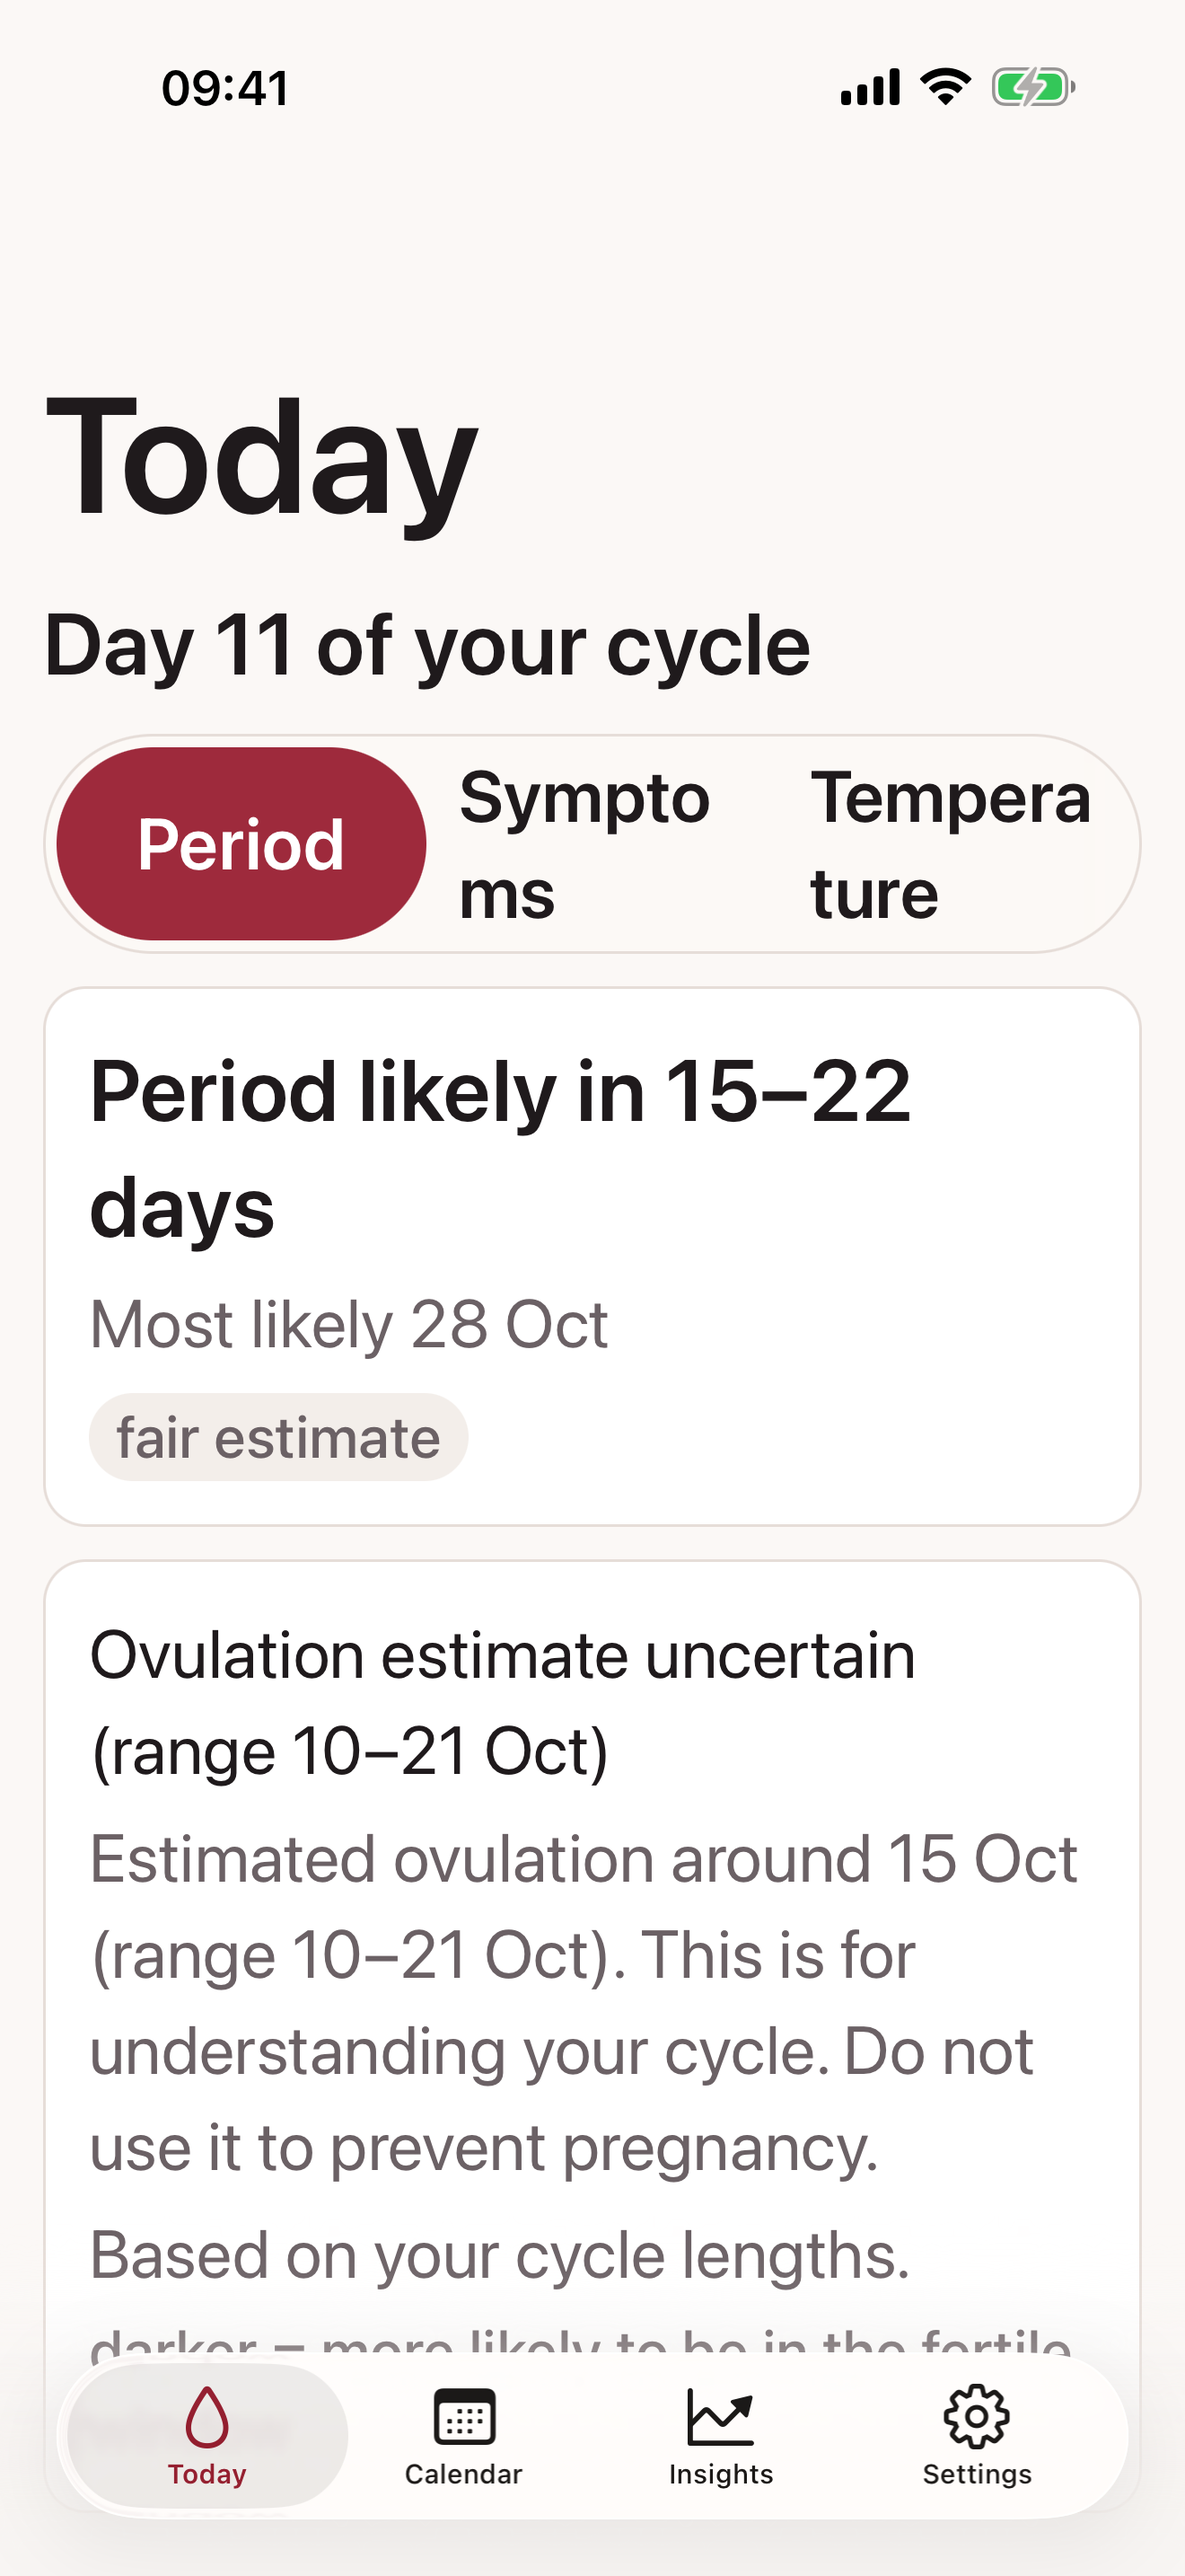
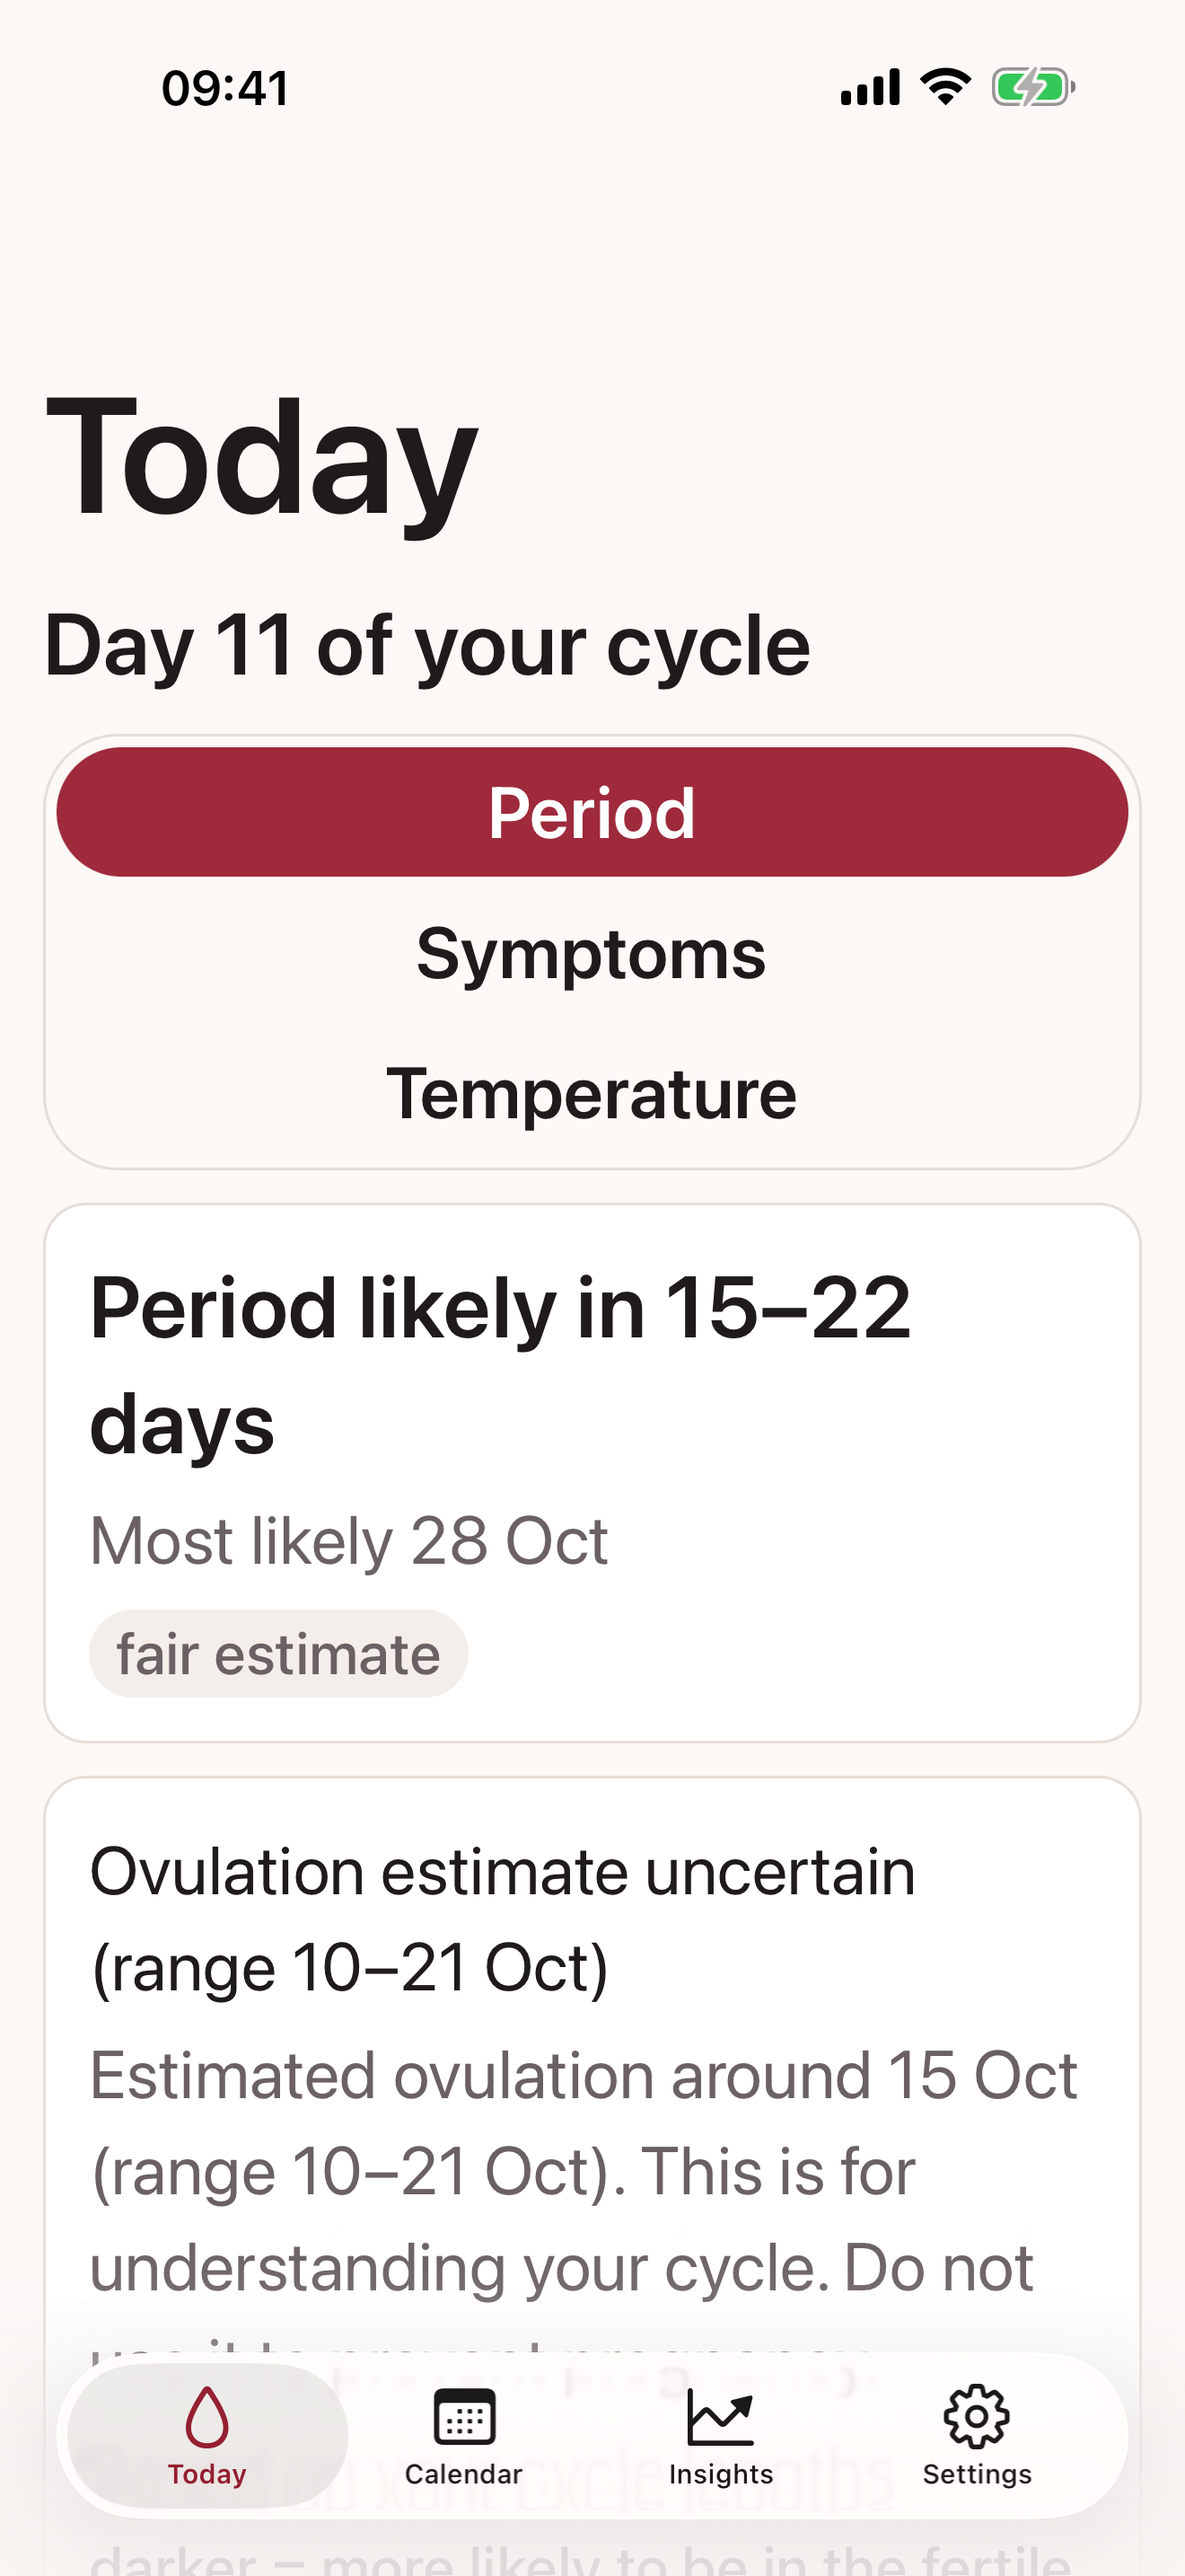
P2-14 accessibility pass: static checks, font-scale reflow, manual script

diff --git a/apps/mobile/src/features/today/QuickLogRow.tsx b/apps/mobile/src/features/today/QuickLogRow.tsx
@@ -5,6 +5,7 @@ import { useRouter } from 'expo-router';
 import { useTranslation } from 'react-i18next';
 import { Platform, Pressable, View } from 'react-native';
 import { useTheme } from '@/theme';
+import { LARGE, useFontScale } from '@/ui/useFontScale';
 import { Text } from '@/ui/Text';
 
 export type LogSection = 'period' | 'symptoms' | 'temperature';
@@ -13,6 +14,7 @@ export function QuickLogRow() {
   const t = useTheme();
   const { t: tr } = useTranslation();
   const router = useRouter();
+  const stacked = useFontScale() > LARGE; // big text: one button per line instead of breaking words
   const go = (section: LogSection) => {
     void Haptics.impactAsync(Haptics.ImpactFeedbackStyle.Light);
     router.push({ pathname: '/log', params: { section } });
@@ -20,20 +22,20 @@ export function QuickLogRow() {
   const item = (section: LogSection, label: string, primary = false) => (
     <Pressable
       key={section} testID={`quick-${section}`} accessibilityRole="button" accessibilityLabel={label} onPress={() => go(section)}
-      style={({ pressed }) => ({ flex: primary ? 1.1 : 1, minHeight: 48, borderRadius: 999, alignItems: 'center', justifyContent: 'center', paddingHorizontal: 8, backgroundColor: primary ? t.c.accent : 'transparent', opacity: pressed ? 0.7 : 1 })}>
+      style={({ pressed }) => ({ ...(stacked ? { alignSelf: 'stretch' as const } : { flex: primary ? 1.1 : 1 }), minHeight: 48, borderRadius: 999, alignItems: 'center', justifyContent: 'center', paddingHorizontal: 8, backgroundColor: primary ? t.c.accent : 'transparent', opacity: pressed ? 0.7 : 1 })}>
       <Text variant="heading" style={{ fontSize: 15, lineHeight: 20, color: primary ? (t.scheme === 'dark' ? '#3A0A14' : '#FFFFFF') : t.c.textPrimary }}>{label}</Text>
     </Pressable>
   );
   const row = (
-    <View style={{ flexDirection: 'row', gap: 4, padding: 4 }}>
+    <View style={{ flexDirection: stacked ? 'column' : 'row', gap: 4, padding: 4 }}>
       {item('period', tr('today.quick.period'), true)}
       {item('symptoms', tr('today.quick.symptoms'))}
       {item('temperature', tr('today.quick.temperature'))}
     </View>
   );
   return Platform.OS === 'ios' ? (
-    <BlurView intensity={40} tint={t.scheme === 'dark' ? 'dark' : 'light'} style={{ borderRadius: 999, overflow: 'hidden', borderWidth: 1, borderColor: t.hairline }}>{row}</BlurView>
+    <BlurView intensity={40} tint={t.scheme === 'dark' ? 'dark' : 'light'} style={{ borderRadius: stacked ? 28 : 999, overflow: 'hidden', borderWidth: 1, borderColor: t.hairline }}>{row}</BlurView>
   ) : (
-    <View style={{ borderRadius: 999, backgroundColor: t.chipBg, elevation: 3 }}>{row}</View>
+    <View style={{ borderRadius: stacked ? 28 : 999, backgroundColor: t.chipBg, elevation: 3 }}>{row}</View>
   );
 }

diff --git a/apps/mobile/src/features/logging/SymptomGrid.tsx b/apps/mobile/src/features/logging/SymptomGrid.tsx
@@ -1,6 +1,7 @@
 import { useTranslation } from 'react-i18next';
 import { Pressable, View } from 'react-native';
 import { useTheme } from '@/theme';
+import { LARGE, useFontScale } from '@/ui/useFontScale';
 import { Text } from '@/ui/Text';
 
 export const DEFAULT_INTENSITY = 2;
@@ -9,6 +10,7 @@ export const DEFAULT_INTENSITY = 2;
 export function SymptomGrid({ codes, values, onSet }: { codes: string[]; values: Record<string, number>; onSet: (code: string, intensity: 0 | 1 | 2 | 3) => void }) {
   const t = useTheme();
   const { t: tr } = useTranslation();
+  const wide = useFontScale() > LARGE; // two columns so words are never split
   return (
     <View style={{ flexDirection: 'row', flexWrap: 'wrap', gap: 8 }}>
       {codes.map((code) => {
@@ -22,7 +24,7 @@ export function SymptomGrid({ codes, values, onSet }: { codes: string[]; values:
             accessibilityHint={tr('log.longPressHint')}
             onPress={() => onSet(code, on ? 0 : DEFAULT_INTENSITY)}
             onLongPress={() => onSet(code, on ? (((n % 3) + 1) as 1 | 2 | 3) : 1)}
-            style={{ width: '23%', flexGrow: 1, minHeight: 72, borderRadius: t.radius.tile, paddingHorizontal: 4, alignItems: 'center', justifyContent: 'center', gap: 4, backgroundColor: on ? t.c.accentSoft : t.chipBg, borderWidth: 1.5, borderColor: on ? t.c.accent : 'transparent' }}>
+            style={{ width: wide ? '48%' : '23%', flexGrow: 1, minHeight: 72, borderRadius: t.radius.tile, paddingHorizontal: 4, alignItems: 'center', justifyContent: 'center', gap: 4, backgroundColor: on ? t.c.accentSoft : t.chipBg, borderWidth: 1.5, borderColor: on ? t.c.accent : 'transparent' }}>
             <Text variant="caption" color={on ? 'accent' : 'textPrimary'} style={{ textAlign: 'center' }}>{name}</Text>
             <View style={{ flexDirection: 'row', gap: 3 }}>
               {[1, 2, 3].map((i) => <View key={i} style={{ width: 6, height: 6, borderRadius: 3, backgroundColor: i <= n ? t.c.accent : t.c.border }} />)}

diff --git a/apps/mobile/src/features/today/PhaseRing.tsx b/apps/mobile/src/features/today/PhaseRing.tsx
@@ -1,9 +1,10 @@
 // The one expressive element: a ring of the cycle with period days, the graded fertile band, the predicted-period range and today (PLAN.md §9.5).
 import { useTranslation } from 'react-i18next';
-import { PixelRatio, View } from 'react-native';
+import { View } from 'react-native';
 import Svg, { Circle, G, Line, Path } from 'react-native-svg';
 import { useTheme } from '@/theme';
 import { Text } from '@/ui/Text';
+import { useFontScale } from '@/ui/useFontScale';
 import { arcPath } from './arc';
 import type { RingModel } from './todayModel';
 
@@ -15,7 +16,7 @@ const C = SIZE / 2;
 export function PhaseRing({ ring, dayOfCycle, phase }: { ring: RingModel; dayOfCycle: number | undefined; phase: string | undefined }) {
   const t = useTheme();
   const { t: tr } = useTranslation();
-  const big = PixelRatio.getFontScale() > 1.5;
+  const big = useFontScale() > 1.5;
   const label = ring.kind === 'cycle' && dayOfCycle ? tr('a11y.phaseRing', { day: dayOfCycle, phase: phase ? tr(`insights.phases.${phase}`) : '' }) : ring.kind === 'noData' ? tr('today.ring.noData') : '';
 
   // above 150% text size the ring collapses to a text header (§8.9)

diff --git a/apps/mobile/src/ui/useFontScale.ts b/apps/mobile/src/ui/useFontScale.ts
@@ -1,0 +1,7 @@
+import { useWindowDimensions } from 'react-native';
+
+/** Current system text scale (updates when the user changes it). Layouts switch to stacked forms above LARGE. */
+export const LARGE = 1.3;
+export function useFontScale(): number {
+  return useWindowDimensions().fontScale;
+}

diff --git a/docs/DECISIONS.md b/docs/DECISIONS.md
@@ -100,3 +100,4 @@ Status: open = not yet checked, carried by the owning backlog item; applied = co
 - D-036 (2026-10-09) Findings from the automated commit security review of P2-12, all accepted and fixed. (1) Passphrase and recovery-code fields were plain text with autocorrect on: they are now masked (`secure`: no suggestions, no autocomplete, no autocorrect learning) and the typed values are cleared from state when the operation ends. (2) "Delete everything" dropped the tables but deleted content could remain in freed pages and in the write-ahead log: it now sets `secure_delete`, drops, checkpoints the log (`TRUNCATE`), and `VACUUM`s before re-migrating. (3) Exported zips, backups and files copied by the document picker stayed in the cache after use and after "Delete everything": each is now removed as soon as the share sheet or import finishes (`services/tempFiles.ts`), and "Delete everything" sweeps any left over. Screenshot protection of the recovery code screen needs a native flag and stays in P3-6.
 - D-037 (2026-10-09) App lock and reminders (P2-13). (1) Lock: on when the setting is on (default) AND the phone has Face ID, a fingerprint or a passcode/PIN (`getEnrolledLevelAsync`); otherwise it cannot work and stays off, and the switch refuses to turn on with "Turn on a screen lock on this phone first". It locks on first open and after 60 s in the background (`LOCK_AFTER_MS`, pure `shouldLock`); the system sheet falls back to the device passcode. A user cancelling the Face ID sheet does not re-prompt (only a return from the background does); the lock screen shows "Could not unlock. Try again." and an Unlock button. In the app switcher an opaque cover hides the content. (2) The note key is only released while unlocked (`getNoteKey` throws when locked). (3) Verified on the iOS simulator by enrolling Face ID (`notifyutil`) and sending matching and non-matching faces (`apps/mobile/.maestro/lock-ios.sh`). Not verified on Android: the Expo Go emulator cannot be driven through the device-credential prompt without locking the emulator itself; left for the dev client (P3-1). (4) Reminders: one local notification at 09:00 the day before the 80% range begins, replaced on every prediction change (`planReminder`, tested); default text "Sanguine: a reminder", descriptive text only when the user turns details on; nothing while estimates are paused; the page shows "Next reminder: 23 Oct". No push token is requested. (5) Gap, moved to Phase 3 as P3-1b: `expo-notifications` throws on import in Expo Go on Android (SDK 53+), so there `remindersSupported` is false, the switch is disabled with "Reminders on Android arrive in a later update", and the module is only `require`d lazily where supported. Rejected: leaving the import at module level (the Android app crashed at start).
 - D-038 (2026-10-09) Findings from the automated commit security review of P2-13, all accepted and fixed. (1) Auth bypass: my "only a return from the background re-checks the lock" change compared the previous AppState, but iOS reports a return as background → inactive → active, so the lock would never re-engage. The tracker now remembers that the app was in the background since the last `active` (`appStateTracker.ts`, tested on both platform sequences); verified on the simulator by leaving the app for 66 s and seeing the Face ID sheet return. (2) Fail-open at start: content could show for a frame or more before the asynchronous first lock check finished. The app now stays covered until the first decision is made (`decided`), and later decisions are synchronous once the phone's capability is known. (3) Fail-open on error: if the lock capability cannot be read (`getEnrolledLevelAsync` throws) the app now assumes a lock exists and stays covered instead of opening. A phone that truly has no screen lock still runs without the app lock, as documented in D-037.
+- D-039 (2026-10-09) Accessibility pass (P2-14). (1) Static checks in `a11y.test.ts` enforce labels on every interactive element, 44 pt targets, no custom animation and the shape-plus-words rule for calendar marks; the Segmented control was raised from 40 to 44 and settings rows given an explicit 56 minimum. (2) At 150–160% text size (iOS Dynamic Type AX1 and Android font scale 1.5) the screenshots showed split words ("Sympto/ms" on Today, "Headac/he" in the log sheet); the quick-log row now stacks and the symptom grid uses two columns above a 1.3 scale (`useFontScale`), and the ring collapses to a text header above 1.5. Re-shot on both platforms. (3) Reduced motion: the app has no custom animation (no Animated, reanimated or LayoutAnimation), so transitions are the platform's, which honour Reduce Motion; the ring never animates (static SVG). (4) The manual VoiceOver/TalkBack script is `docs/accessibility.md`; running it needs a person and is listed under "Needs human" in PROGRESS.md.

diff --git a/docs/accessibility.md b/docs/accessibility.md
@@ -1,0 +1,32 @@
+# Accessibility (WCAG 2.2 AA, PLAN.md §8.9)
+
+## What is checked automatically
+
+| Check | Where |
+| --- | --- |
+| Text contrast ≥ 4.5:1 and non-text ≥ 3:1 for every colour token, light and dark | `packages/ui-tokens/src/tokens.test.ts` |
+| Every `Pressable`, `Switch`, `TextInput` has an accessibility label; every `Pressable` declares a target of at least 44 | `apps/mobile/src/a11y.test.ts` |
+| No custom animation anywhere (reduced motion is therefore met; the ring is static) | `apps/mobile/src/a11y.test.ts` |
+| Period, predicted range and fertile band are drawn as shapes and spoken in words, never opacity | `calendarModel.test.ts`, `a11y.test.ts` |
+| Screens at about 150% text size on iOS (Dynamic Type AX1, ~160%) and Android (font scale 1.5) | `apps/mobile/.maestro/fontscale.sh ios\|android`, screenshots in `docs/screenshots/P2-14/` |
+| Above 150% the ring collapses to a text header; below, quick-log buttons and symptom tiles reflow instead of splitting words | `PhaseRing`, `QuickLogRow`, `SymptomGrid` |
+
+## Manual script (VoiceOver on iOS, TalkBack on Android)
+
+Run with the sample data: open `exp://<host>:8090/--/dev/seed?scenario=typical` in Expo Go.
+
+1. **Today.** Swipe right through the screen. Expect: title "Today", the ring as one element ("Cycle day 11. Follicular."), then Period, Symptoms, Temperature buttons, the headline ("Period likely in 15–22 days"), "fair estimate", the ovulation estimate button then its fixed sentence, the footer. No element should read a bare number or "image".
+2. **Log sheet.** Activate Period. Expect "Friday 9 October" as a heading, flow options as radio buttons ("Medium", selected state spoken), symptoms as checkboxes ("Cramps, intensity 2 of 3" or "Cramps, not selected") with the long-press hint, More rows reading "Temperature. 36.42 °C" or "Add". Done closes the sheet.
+3. **Calendar.** Explore by touch. Each day reads date and state in words ("Thursday 1 October, period, something logged", "… moderate likelihood of being in the fertile window"). Month chevrons are named. The summary card reads the selected day.
+4. **Insights.** Segmented control reads as radio buttons. History rows read as one heading plus details. Charts read a summary label (cycle lengths; temperature count and coverline; symptom shares).
+5. **Settings.** Rows read "title. current value". Switches read their title and state. The destructive row is announced by its title; the confirmation names the action ("Delete all my data").
+6. **Onboarding.** Progress reads "Step 2 of 5". Year fields read their label and, when invalid, the error. The consent checkbox reads its sentence and checked state.
+7. **Lock screen.** Title, explanation and the Unlock button are the only elements; the system sheet takes focus.
+
+Record the device, OS version and any failure in `docs/DECISIONS.md`.
+
+## Known limits
+
+- Haptics are used on the quick-log buttons only and are never the only feedback.
+- Colour themes follow the system; the in-app switch is in Settings > Appearance.
+- Screen-reader output was checked by label inspection and the automated tests above; a person using VoiceOver or TalkBack has not yet walked the script (needs a human, see `docs/PROGRESS.md`).

diff --git a/docs/PROGRESS.md b/docs/PROGRESS.md
@@ -45,3 +45,4 @@ One line per finished backlog item.
 - P2-12 follow-up: fixed three security-review findings (masked passphrase fields, secure wipe, cache file cleanup) (D-036).
 - P2-13 app lock (Face ID / passcode, 60 s auto-lock, switcher cover, note key gating) verified on iOS with simulated faces; local reminders scheduled from the prediction (iOS; Android moved to P3-1b) (D-037).
 - P2-13 follow-up: security-review fixes for the app lock (iOS background→inactive→active, cover until first decision, fail closed); re-lock after 66 s verified on iOS (D-038).
+- P2-14 accessibility: static a11y tests, 150% font-scale shots on iOS and Android, reflow fixes, manual script in docs/accessibility.md (D-039).
